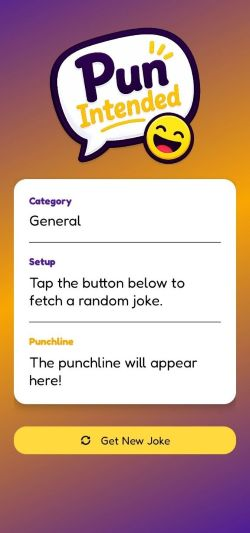
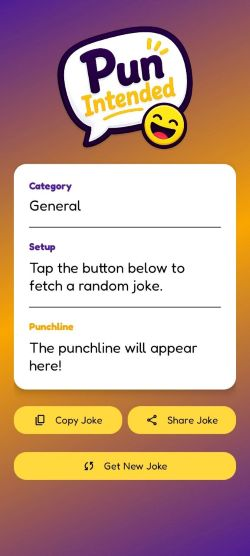
Update: Copy and Share Joke Options

diff --git a/app/src/main/java/com/example/punintended/MainActivity.java b/app/src/main/java/com/example/punintended/MainActivity.java
@@ -1,8 +1,12 @@
 package com.example.punintended;
 
+import android.content.ClipData;
+import android.content.ClipboardManager;
+import android.content.Intent;
 import android.os.Bundle;
 import android.util.Log;
 import android.view.View;
+import android.view.WindowManager;
 import android.widget.LinearLayout;
 import android.widget.TextView;
 import android.widget.Toast;
@@ -27,7 +31,9 @@ public class MainActivity extends AppCompatActivity {
 
     TextView textCategory, textSetup, textPunchLine;
     LinearLayout progressBarLayout;
-    MaterialButton buttonNewJoke;
+    MaterialButton buttonCopyJoke, buttonShareJoke, buttonNewJoke;
+    String generatedJoke;
+    boolean isJokeLoaded = false;
 
     private static final String API_URL = "https://official-joke-api.appspot.com/random_joke";
 
@@ -36,6 +42,8 @@ public class MainActivity extends AppCompatActivity {
         textSetup = findViewById(R.id.textSetup);
         textPunchLine = findViewById(R.id.textPunchline);
         progressBarLayout = findViewById(R.id.progressBarLayout);
+        buttonCopyJoke = findViewById(R.id.buttonCopyJoke);
+        buttonShareJoke = findViewById(R.id.buttonShareJoke);
         buttonNewJoke = findViewById(R.id.buttonNewJoke);
     }
 
@@ -49,9 +57,12 @@ public class MainActivity extends AppCompatActivity {
             v.setPadding(systemBars.left, systemBars.top, systemBars.right, systemBars.bottom);
             return insets;
         });
+        getWindow().setFlags(WindowManager.LayoutParams.FLAG_FULLSCREEN, WindowManager.LayoutParams.FLAG_FULLSCREEN);
 
         initViews();
         buttonNewJoke.setOnClickListener(v -> fetchJoke());
+        buttonCopyJoke.setOnClickListener(v -> copyJoke());
+        buttonShareJoke.setOnClickListener(v -> shareJoke());
     }
 
     private void fetchJoke() {
@@ -64,6 +75,8 @@ public class MainActivity extends AppCompatActivity {
                 response -> {
                     progressBarLayout.setVisibility(View.GONE);
                     buttonNewJoke.setEnabled(true);
+                    buttonCopyJoke.setEnabled(true);
+                    buttonShareJoke.setEnabled(true);
                     try {
                         String type = response.getString("type");
                         String setup = response.getString("setup");
@@ -72,6 +85,8 @@ public class MainActivity extends AppCompatActivity {
                         textCategory.setText(type);
                         textSetup.setText(setup);
                         textPunchLine.setText(punchline);
+
+                        isJokeLoaded = true;
                     } catch (JSONException e) {
                         Log.e("Parsing Error", Objects.requireNonNull(e.getMessage()));
                         Toast.makeText(MainActivity.this, "Failed to parse joke.", Toast.LENGTH_SHORT).show();
@@ -80,10 +95,37 @@ public class MainActivity extends AppCompatActivity {
                 error -> {
                     progressBarLayout.setVisibility(View.GONE);
                     buttonNewJoke.setEnabled(true);
-                    Log.e("Volley Error Message", error.toString());
+                    buttonCopyJoke.setEnabled(true);
+                    buttonShareJoke.setEnabled(true);
+                    Log.e("Volley Error", error.toString());
                     Toast.makeText(MainActivity.this, "Network Error!", Toast.LENGTH_SHORT).show();
+                    isJokeLoaded = false;
                 }
         );
         queue.add(request);
+    }
+
+    private void copyJoke() {
+        if (!isJokeLoaded) {
+            Toast.makeText(MainActivity.this, "Generate a joke first", Toast.LENGTH_SHORT).show();
+            return;
+        }
+        generatedJoke = textSetup.getText().toString() + "\n\n" + textPunchLine.getText().toString();
+        ClipboardManager clipboardManager = (ClipboardManager) getSystemService(CLIPBOARD_SERVICE);
+        ClipData clipData = ClipData.newPlainText("Joke", generatedJoke);
+        clipboardManager.setPrimaryClip(clipData);
+        Toast.makeText(MainActivity.this, "Copied!", Toast.LENGTH_SHORT).show();
+    }
+
+    private void shareJoke() {
+        if (!isJokeLoaded) {
+            Toast.makeText(MainActivity.this, "Generate a joke first", Toast.LENGTH_SHORT).show();
+            return;
+        }
+        generatedJoke = textSetup.getText().toString() + "\n\n" + textPunchLine.getText().toString();
+        Intent intent = new Intent(Intent.ACTION_SEND);
+        intent.setType("text/plain");
+        intent.putExtra(Intent.EXTRA_TEXT, generatedJoke);
+        startActivity(Intent.createChooser(intent, "Share Joke"));
     }
 }
